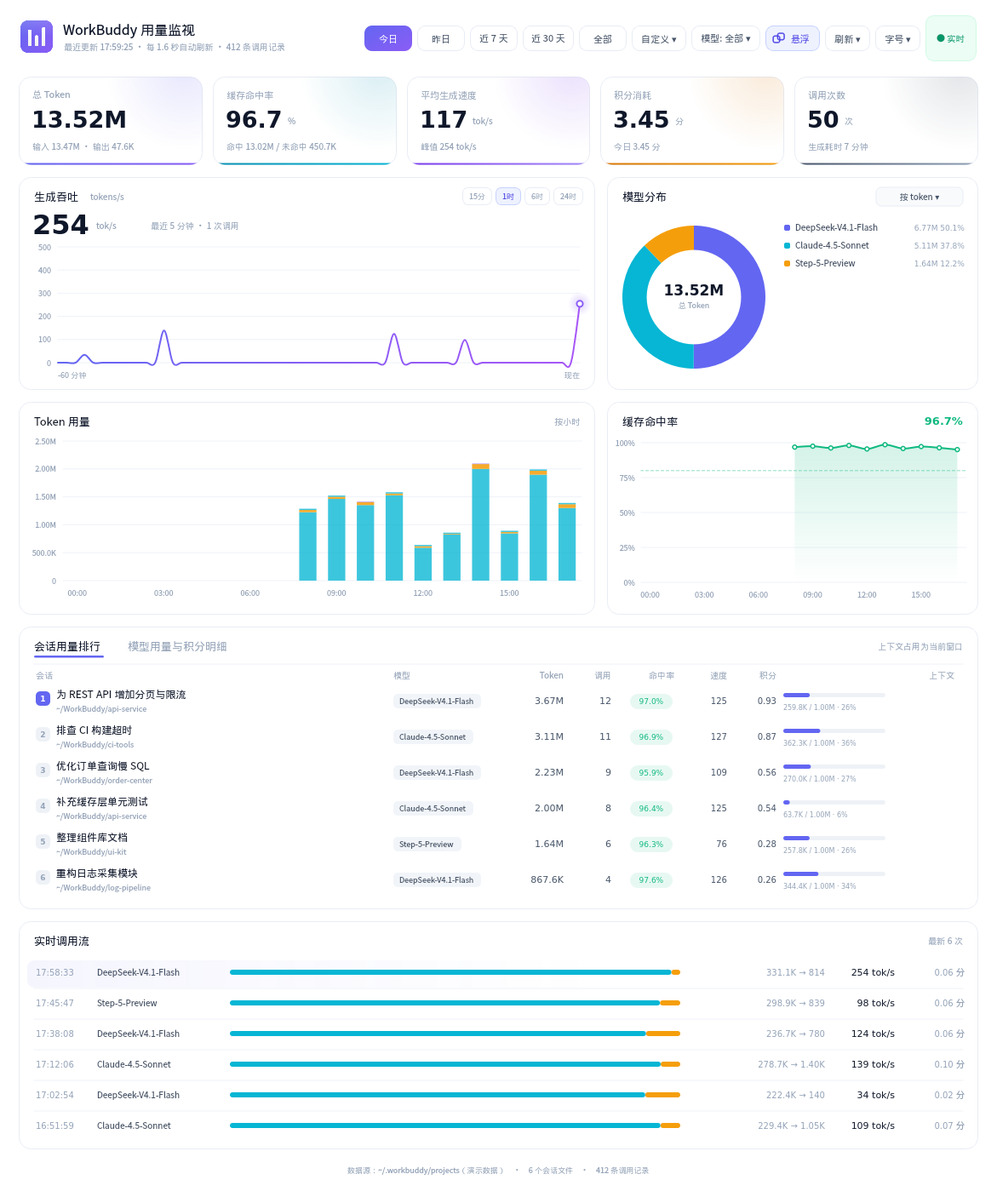
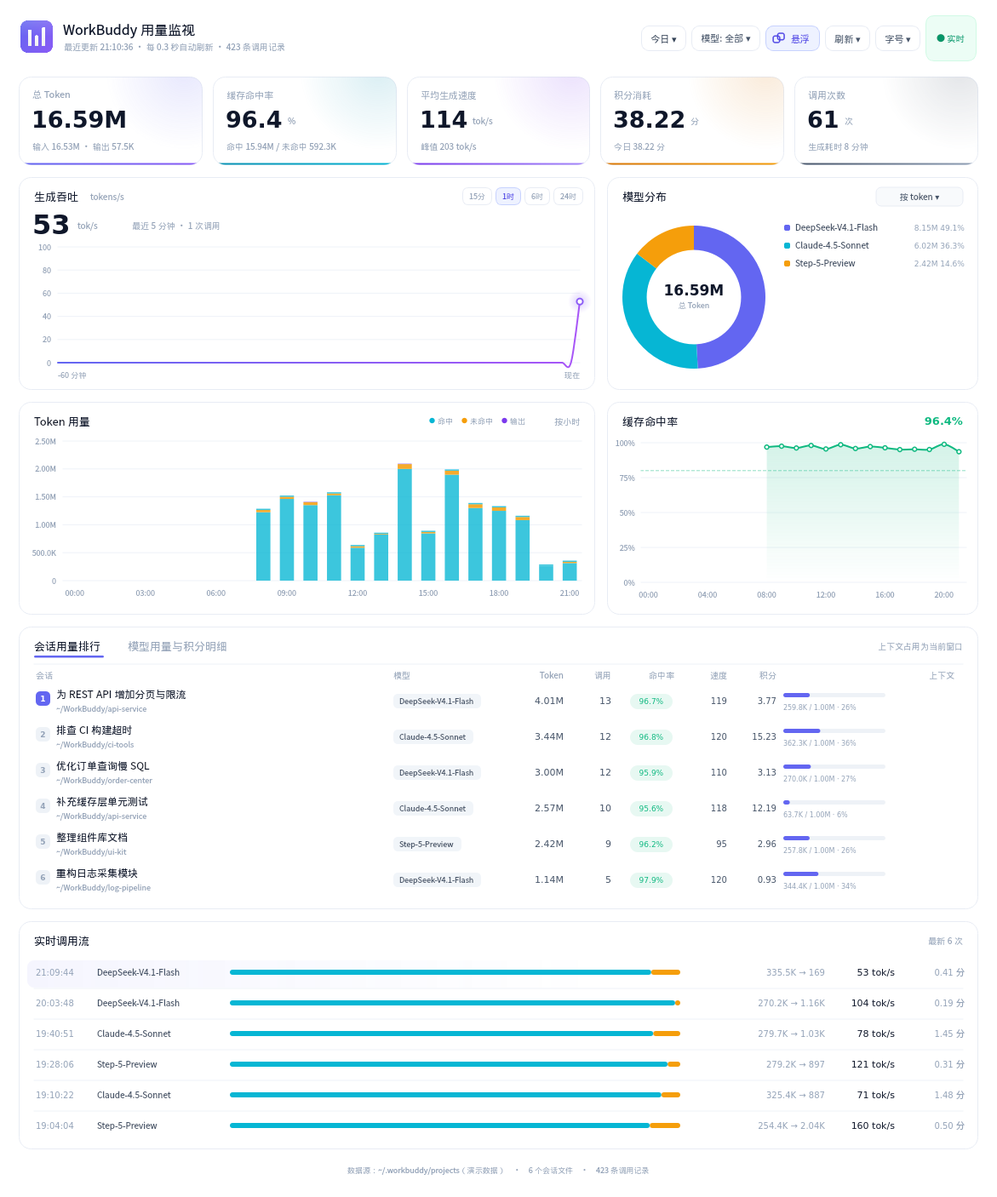
feat: 顶部时间菜单、加权均价与环形图自动选维度
- 六个时间按钮收进「今日 ▾」菜单，模型筛选不再被截断
- 「综合单价」改名「加权均价」，补脚注与悬停算法说明（Qt + Web）
- 选定模型且构成某段 >=90% 时，环形图默认切到积分构成；手动切换后不再干预
- Qt 版 Token 用量图补回三色图例
- 版本 1.1.1，更新 CHANGELOG、中英文 README 与演示素材

diff --git a/preview.html b/preview.html
@@ -1206,7 +1206,7 @@ tr:nth-child(3) .rank { background: #ede9fe; color: #7c3aed; }
 </div>
 
 <div class="tip" id="tip"></div>
-<script>window.__WB_SNAPSHOT__ = {"generated_at": 1792664989254, "range": "all", "start": 1792109244131, "end": 1792664989254, "selected_model": null, "kpi": {"tokens": 74142591, "input": 73765587, "output": 377004, "cache_hit": 70754033, "cache_miss": 3011554, "hit_rate": 0.959173998032443, "credit": 182.65, "calls": 417, "avg_speed": 110.65103206673977, "peak_speed": 202.65111346765642, "gen_seconds": 3407.1, "today_tokens": 14795887, "today_credit": 33.46, "today_calls": 55, "all_tokens": 74142591, "all_credit": 182.65}, "series": {"granularity": "day", "buckets": [{"label": "10/16", "hit": 5158302, "miss": 211677, "out": 52950, "credit": 15.904000000000003, "calls": 61, "t": 1792080000000}, {"label": "10/17", "hit": 6751221, "miss": 292454, "out": 47646, "credit": 15.593999999999992, "calls": 60, "t": 1792166400000}, {"label": "10/18", "hit": 8981214, "miss": 389376, "out": 57230, "credit": 22.754, "calls": 63, "t": 1792252800000}, {"label": "10/19", "hit": 10231181, "miss": 471961, "out": 55112, "credit": 27.774000000000004, "calls": 59, "t": 1792339200000}, {"label": "10/20", "hit": 11488522, "miss": 532223, "out": 54702, "credit": 29.835, "calls": 56, "t": 1792425600000}, {"label": "10/21", "hit": 13903170, "miss": 609557, "out": 58206, "credit": 37.332, "calls": 63, "t": 1792512000000}, {"label": "10/22", "hit": 14240423, "miss": 504306, "out": 51158, "credit": 33.459, "calls": 55, "t": 1792598400000}]}, "speeds": [{"t": 1792661389254, "v": 0.0, "out": 0, "calls": 0}, {"t": 1792661449254, "v": 0.0, "out": 0, "calls": 0}, {"t": 1792661509254, "v": 0.0, "out": 0, "calls": 0}, {"t": 1792661569254, "v": 0.0, "out": 0, "calls": 0}, {"t": 1792661629254, "v": 0.0, "out": 0, "calls": 0}, {"t": 1792661689254, "v": 0.0, "out": 0, "calls": 0}, {"t": 1792661749254, "v": 0.0, "out": 0, "calls": 0}, {"t": 1792661809254, "v": 0.0, "out": 0, "calls": 0}, {"t": 1792661869254, "v": 124.5, "out": 780, "calls": 1}, {"t": 1792661929254, "v": 0.0, "out": 0, "calls": 0}, {"t": 1792661989254, "v": 0.0, "out": 0, "calls": 0}, {"t": 1792662049254, "v": 0.0, "out": 0, "calls": 0}, {"t": 1792662109254, "v": 0.0, "out": 0, "calls": 0}, {"t": 1792662169254, "v": 0.0, "out": 0, "calls": 0}, {"t": 1792662229254, "v": 0.0, "out": 0, "calls": 0}, {"t": 1792662289254, "v": 90.4, "out": 1672, "calls": 2}, {"t": 1792662349254, "v": 130.9, "out": 1524, "calls": 1}, {"t": 1792662409254, "v": 0.0, "out": 0, "calls": 0}, {"t": 1792662469254, "v": 0.0, "out": 0, "calls": 0}, {"t": 1792662529254, "v": 0.0, "out": 0, "calls": 0}, {"t": 1792662589254, "v": 0.0, "out": 0, "calls": 0}, {"t": 1792662649254, "v": 0.0, "out": 0, "calls": 0}, {"t": 1792662709254, "v": 0.0, "out": 0, "calls": 0}, {"t": 1792662769254, "v": 0.0, "out": 0, "calls": 0}, {"t": 1792662829254, "v": 0.0, "out": 0, "calls": 0}, {"t": 1792662889254, "v": 0.0, "out": 0, "calls": 0}, {"t": 1792662949254, "v": 111.4, "out": 814, "calls": 1}, {"t": 1792663009254, "v": 0.0, "out": 0, "calls": 0}, {"t": 1792663069254, "v": 0.0, "out": 0, "calls": 0}, {"t": 1792663129254, "v": 0.0, "out": 0, "calls": 0}, {"t": 1792663189254, "v": 79.6, "out": 358, "calls": 1}, {"t": 1792663249254, "v": 0.0, "out": 0, "calls": 0}, {"t": 1792663309254, "v": 0.0, "out": 0, "calls": 0}, {"t": 1792663369254, "v": 0.0, "out": 0, "calls": 0}, {"t": 1792663429254, "v": 0.0, "out": 0, "calls": 0}, {"t": 1792663489254, "v": 0.0, "out": 0, "calls": 0}, {"t": 1792663549254, "v": 0.0, "out": 0, "calls": 0}, {"t": 1792663609254, "v": 0.0, "out": 0, "calls": 0}, {"t": 1792663669254, "v": 0.0, "out": 0, "calls": 0}, {"t": 1792663729254, "v": 0.0, "out": 0, "calls": 0}, {"t": 1792663789254, "v": 0.0, "out": 0, "calls": 0}, {"t": 1792663849254, "v": 0.0, "out": 0, "calls": 0}, {"t": 1792663909254, "v": 0.0, "out": 0, "calls": 0}, {"t": 1792663969254, "v": 0.0, "out": 0, "calls": 0}, {"t": 1792664029254, "v": 0.0, "out": 0, "calls": 0}, {"t": 1792664089254, "v": 0.0, "out": 0, "calls": 0}, {"t": 1792664149254, "v": 0.0, "out": 0, "calls": 0}, {"t": 1792664209254, "v": 0.0, "out": 0, "calls": 0}, {"t": 1792664269254, "v": 98.8, "out": 443, "calls": 1}, {"t": 1792664329254, "v": 0.0, "out": 0, "calls": 0}, {"t": 1792664389254, "v": 0.0, "out": 0, "calls": 0}, {"t": 1792664449254, "v": 0.0, "out": 0, "calls": 0}, {"t": 1792664509254, "v": 0.0, "out": 0, "calls": 0}, {"t": 1792664569254, "v": 0.0, "out": 0, "calls": 0}, {"t": 1792664629254, "v": 0.0, "out": 0, "calls": 0}, {"t": 1792664689254, "v": 0.0, "out": 0, "calls": 0}, {"t": 1792664749254, "v": 0.0, "out": 0, "calls": 0}, {"t": 1792664809254, "v": 0.0, "out": 0, "calls": 0}, {"t": 1792664869254, "v": 0.0, "out": 0, "calls": 0}, {"t": 1792664929254, "v": 133.1, "out": 426, "calls": 1}], "models": [{"name": "DeepSeek-V4.1-Flash", "tokens": 36078472, "in": 35889485, "out": 188987, "calls": 204, "hit": 34443434, "miss": 1446051, "credit": 41.56, "share": 0.4866, "credit_share": 0.2275, "hit_rate": 0.9597, "speed": 111.5}, {"name": "Claude-4.5-Sonnet", "tokens": 25507098, "in": 25376139, "out": 130959, "calls": 144, "hit": 24339755, "miss": 1036384, "credit": 123.75, "share": 0.344, "credit_share": 0.6775, "hit_rate": 0.9592, "speed": 113.6}, {"name": "Step-5-Preview", "tokens": 12557021, "in": 12499963, "out": 57058, "calls": 69, "hit": 11970844, "miss": 529119, "credit": 17.34, "share": 0.1694, "credit_share": 0.0949, "hit_rate": 0.9577, "speed": 101.8}], "all_models": [{"name": "DeepSeek-V4.1-Flash", "tokens": 36078472, "in": 35889485, "out": 188987, "calls": 204, "hit": 34443434, "miss": 1446051, "credit": 41.56, "share": 0.4866, "credit_share": 0.2275, "hit_rate": 0.9597, "speed": 111.5}, {"name": "Claude-4.5-Sonnet", "tokens": 25507098, "in": 25376139, "out": 130959, "calls": 144, "hit": 24339755, "miss": 1036384, "credit": 123.75, "share": 0.344, "credit_share": 0.6775, "hit_rate": 0.9592, "speed": 113.6}, {"name": "Step-5-Preview", "tokens": 12557021, "in": 12499963, "out": 57058, "calls": 69, "hit": 11970844, "miss": 529119, "credit": 17.34, "share": 0.1694, "credit_share": 0.0949, "hit_rate": 0.9577, "speed": 101.8}], "breakdown": null, "sessions": [{"id": "demo-02", "title": "为 REST API 增加分页与限流", "cwd": "~/WorkBuddy/api-service", "model": "DeepSeek-V4.1-Flash", "tokens": 16597932, "in": 16512593, "out": 85339, "calls": 84, "hit_rate": 0.9605473228826024, "credit": 18.83, "speed": 114.7234653506608, "last": 1792662973708, "used": 259780, "size": 1000000, "active": false}, {"id": "demo-03", "title": "排查 CI 构建超时", "cwd": "~/WorkBuddy/ci-tools", "model": "Claude-4.5-Sonnet", "tokens": 14197438, "in": 14126458, "out": 70980, "calls": 77, "hit_rate": 0.9616276068636597, "credit": 67.66, "speed": 113.91978429389955, "last": 1792664272316, "used": 362263, "size": 1000000, "active": false}, {"id": "demo-05", "title": "整理组件库文档", "cwd": "~/WorkBuddy/ui-kit", "model": "Step-5-Preview", "tokens": 12557021, "in": 12499963, "out": 57058, "calls": 69, "hit_rate": 0.9576703547042499, "credit": 17.34, "speed": 101.84963710555535, "last": 1792663223950, "used": 257843, "size": 1000000, "active": false}, {"id": "demo-04", "title": "补充缓存层单元测试", "cwd": "~/WorkBuddy/api-service", "model": "Claude-4.5-Sonnet", "tokens": 11309660, "in": 11249681, "out": 59979, "calls": 67, "hit_rate": 0.9560593762614247, "credit": 56.09, "speed": 113.30474535287894, "last": 1792659119865, "used": 63672, "size": 1000000, "active": false}, {"id": "demo-06", "title": "优化订单查询慢 SQL", "cwd": "~/WorkBuddy/order-center", "model": "DeepSeek-V4.1-Flash", "tokens": 10708595, "in": 10657218, "out": 51377, "calls": 64, "hit_rate": 0.9589985866855684, "credit": 12.18, "speed": 106.45413274598495, "last": 1792662356264, "used": 270013, "size": 1000000, "active": false}, {"id": "demo-01", "title": "重构日志采集模块", "cwd": "~/WorkBuddy/log-pipeline", "model": "DeepSeek-V4.1-Flash", "tokens": 8771945, "in": 8719674, "out": 52271, "calls": 56, "hit_rate": 0.9589865400931273, "credit": 10.55, "speed": 111.68826173911557, "last": 1792664937240, "used": 344364, "size": 1000000, "active": true}], "recent": [{"t": 1792664937240, "model": "DeepSeek-V4.1-Flash", "in": 226412, "out": 426, "hit": 219805, "miss": 6607, "credit": 0.183, "dur": 3200, "speed": 133.1, "tool": "Write", "title": "重构日志采集模块"}, {"t": 1792664272316, "model": "Claude-4.5-Sonnet", "in": 264635, "out": 443, "hit": 251691, "miss": 12944, "credit": 1.21, "dur": 4486, "speed": 98.8, "tool": "Glob", "title": "排查 CI 构建超时"}, {"t": 1792663223950, "model": "Step-5-Preview", "in": 242466, "out": 358, "hit": 235954, "miss": 6512, "credit": 0.237, "dur": 4495, "speed": 79.6, "tool": "Edit", "title": "整理组件库文档"}, {"t": 1792662973708, "model": "DeepSeek-V4.1-Flash", "in": 331087, "out": 814, "hit": 324572, "miss": 6515, "credit": 0.234, "dur": 7304, "speed": 111.4, "tool": "Write", "title": "为 REST API 增加分页与限流"}, {"t": 1792662356264, "model": "DeepSeek-V4.1-Flash", "in": 280171, "out": 1524, "hit": 272979, "miss": 7192, "credit": 0.269, "dur": 11643, "speed": 130.9, "tool": "Glob", "title": "优化订单查询慢 SQL"}, {"t": 1792662347644, "model": "Step-5-Preview", "in": 298850, "out": 839, "hit": 285395, "miss": 13455, "credit": 0.395, "dur": 8555, "speed": 98.1, "tool": "Glob", "title": "整理组件库文档"}, {"t": 1792662325826, "model": "DeepSeek-V4.1-Flash", "in": 256123, "out": 833, "hit": 235764, "miss": 20359, "credit": 0.408, "dur": 9946, "speed": 83.8, "tool": "Edit", "title": "重构日志采集模块"}, {"t": 1792661888411, "model": "DeepSeek-V4.1-Flash", "in": 236650, "out": 780, "hit": 218663, "miss": 17987, "credit": 0.366, "dur": 6264, "speed": 124.5, "tool": "TaskCreate", "title": "优化订单查询慢 SQL"}, {"t": 1792660326979, "model": "Claude-4.5-Sonnet", "in": 278671, "out": 1398, "hit": 266582, "miss": 12089, "credit": 1.372, "dur": 10055, "speed": 139.0, "tool": "Read", "title": "排查 CI 构建超时"}, {"t": 1792659774728, "model": "DeepSeek-V4.1-Flash", "in": 222390, "out": 140, "hit": 205082, "miss": 17308, "credit": 0.316, "dur": 4137, "speed": 33.8, "tool": "Write", "title": "优化订单查询慢 SQL"}, {"t": 1792659119865, "model": "Claude-4.5-Sonnet", "in": 229443, "out": 1051, "hit": 219361, "miss": 10082, "credit": 1.118, "dur": 9654, "speed": 108.9, "tool": "Glob", "title": "补充缓存层单元测试"}, {"t": 1792657396096, "model": "Step-5-Preview", "in": 245578, "out": 140, "hit": 233576, "miss": 12002, "credit": 0.305, "dur": 4078, "speed": 34.3, "tool": "Glob", "title": "整理组件库文档"}, {"t": 1792657359694, "model": "Claude-4.5-Sonnet", "in": 310925, "out": 251, "hit": 295920, "miss": 15005, "credit": 1.376, "dur": 3923, "speed": 64.0, "tool": "Grep", "title": "排查 CI 构建超时"}, {"t": 1792657226049, "model": "DeepSeek-V4.1-Flash", "in": 303606, "out": 1150, "hit": 301921, "miss": 1685, "credit": 0.177, "dur": 9168, "speed": 125.4, "tool": "Edit", "title": "为 REST API 增加分页与限流"}, {"t": 1792656676981, "model": "Step-5-Preview", "in": 287802, "out": 812, "hit": 285388, "miss": 2414, "credit": 0.228, "dur": 8121, "speed": 100.0, "tool": "Glob", "title": "整理组件库文档"}, {"t": 1792656134959, "model": "DeepSeek-V4.1-Flash", "in": 288527, "out": 1142, "hit": 278811, "miss": 9716, "credit": 0.285, "dur": 11280, "speed": 101.2, "tool": "Write", "title": "优化订单查询慢 SQL"}, {"t": 1792656030425, "model": "DeepSeek-V4.1-Flash", "in": 302477, "out": 852, "hit": 281554, "miss": 20923, "credit": 0.431, "dur": 6880, "speed": 123.8, "tool": "Glob", "title": "为 REST API 增加分页与限流"}, {"t": 1792655229155, "model": "DeepSeek-V4.1-Flash", "in": 291630, "out": 774, "hit": 287571, "miss": 4059, "credit": 0.186, "dur": 6118, "speed": 126.5, "tool": "Grep", "title": "优化订单查询慢 SQL"}, {"t": 1792655157528, "model": "Claude-4.5-Sonnet", "in": 268191, "out": 580, "hit": 258554, "miss": 9637, "credit": 1.152, "dur": 6577, "speed": 88.2, "tool": "TaskCreate", "title": "排查 CI 构建超时"}, {"t": 1792654166108, "model": "Claude-4.5-Sonnet", "in": 310150, "out": 852, "hit": 299715, "miss": 10435, "credit": 1.34, "dur": 6295, "speed": 135.3, "tool": "Edit", "title": "排查 CI 构建超时"}, {"t": 1792651957371, "model": "Claude-4.5-Sonnet", "in": 303453, "out": 449, "hit": 293256, "miss": 10197, "credit": 1.253, "dur": 5791, "speed": 77.5, "tool": "Grep", "title": "补充缓存层单元测试"}, {"t": 1792651886195, "model": "DeepSeek-V4.1-Flash", "in": 244084, "out": 1123, "hit": 234140, "miss": 9944, "credit": 0.275, "dur": 6819, "speed": 164.7, "tool": "Edit", "title": "优化订单查询慢 SQL"}, {"t": 1792651579326, "model": "Claude-4.5-Sonnet", "in": 239764, "out": 1479, "hit": 235626, "miss": 4138, "credit": 1.053, "dur": 12062, "speed": 122.6, "tool": "TaskCreate", "title": "补充缓存层单元测试"}, {"t": 1792651433913, "model": "Claude-4.5-Sonnet", "in": 255193, "out": 392, "hit": 238832, "miss": 16361, "credit": 1.266, "dur": 4840, "speed": 81.0, "tool": "Read", "title": "补充缓存层单元测试"}], "status": {"files": 6, "records": 417, "last_scan": 1792664989240, "sessions": 6, "source": "~/.workbuddy/projects（演示数据）"}};</script>
+<script>window.__WB_SNAPSHOT__ = {"generated_at": 1792674638871, "range": "all", "start": 1792109244131, "end": 1792674638871, "selected_model": null, "kpi": {"tokens": 75934516, "input": 75551148, "output": 383368, "cache_hit": 72451600, "cache_miss": 3099548, "hit_rate": 0.9589741773348037, "credit": 187.41, "calls": 423, "avg_speed": 110.5671379381055, "peak_speed": 202.65111346765642, "gen_seconds": 3467.3, "today_tokens": 16587812, "today_credit": 38.22, "today_calls": 61, "all_tokens": 75934516, "all_credit": 187.41}, "series": {"granularity": "day", "buckets": [{"label": "10/16", "hit": 5158302, "miss": 211677, "out": 52950, "credit": 15.904000000000003, "calls": 61, "t": 1792080000000}, {"label": "10/17", "hit": 6751221, "miss": 292454, "out": 47646, "credit": 15.593999999999992, "calls": 60, "t": 1792166400000}, {"label": "10/18", "hit": 8981214, "miss": 389376, "out": 57230, "credit": 22.754, "calls": 63, "t": 1792252800000}, {"label": "10/19", "hit": 10231181, "miss": 471961, "out": 55112, "credit": 27.774000000000004, "calls": 59, "t": 1792339200000}, {"label": "10/20", "hit": 11488522, "miss": 532223, "out": 54702, "credit": 29.835, "calls": 56, "t": 1792425600000}, {"label": "10/21", "hit": 13903170, "miss": 609557, "out": 58206, "credit": 37.332, "calls": 63, "t": 1792512000000}, {"label": "10/22", "hit": 15937990, "miss": 592300, "out": 57522, "credit": 38.22100000000001, "calls": 61, "t": 1792598400000}]}, "speeds": [{"t": 1792671038871, "v": 0.0, "out": 0, "calls": 0}, {"t": 1792671098871, "v": 0.0, "out": 0, "calls": 0}, {"t": 1792671158871, "v": 0.0, "out": 0, "calls": 0}, {"t": 1792671218871, "v": 0.0, "out": 0, "calls": 0}, {"t": 1792671278871, "v": 0.0, "out": 0, "calls": 0}, {"t": 1792671338871, "v": 0.0, "out": 0, "calls": 0}, {"t": 1792671398871, "v": 0.0, "out": 0, "calls": 0}, {"t": 1792671458871, "v": 0.0, "out": 0, "calls": 0}, {"t": 1792671518871, "v": 0.0, "out": 0, "calls": 0}, {"t": 1792671578871, "v": 0.0, "out": 0, "calls": 0}, {"t": 1792671638871, "v": 0.0, "out": 0, "calls": 0}, {"t": 1792671698871, "v": 0.0, "out": 0, "calls": 0}, {"t": 1792671758871, "v": 0.0, "out": 0, "calls": 0}, {"t": 1792671818871, "v": 0.0, "out": 0, "calls": 0}, {"t": 1792671878871, "v": 0.0, "out": 0, "calls": 0}, {"t": 1792671938871, "v": 0.0, "out": 0, "calls": 0}, {"t": 1792671998871, "v": 0.0, "out": 0, "calls": 0}, {"t": 1792672058871, "v": 0.0, "out": 0, "calls": 0}, {"t": 1792672118871, "v": 0.0, "out": 0, "calls": 0}, {"t": 1792672178871, "v": 0.0, "out": 0, "calls": 0}, {"t": 1792672238871, "v": 0.0, "out": 0, "calls": 0}, {"t": 1792672298871, "v": 0.0, "out": 0, "calls": 0}, {"t": 1792672358871, "v": 0.0, "out": 0, "calls": 0}, {"t": 1792672418871, "v": 0.0, "out": 0, "calls": 0}, {"t": 1792672478871, "v": 0.0, "out": 0, "calls": 0}, {"t": 1792672538871, "v": 0.0, "out": 0, "calls": 0}, {"t": 1792672598871, "v": 0.0, "out": 0, "calls": 0}, {"t": 1792672658871, "v": 0.0, "out": 0, "calls": 0}, {"t": 1792672718871, "v": 0.0, "out": 0, "calls": 0}, {"t": 1792672778871, "v": 0.0, "out": 0, "calls": 0}, {"t": 1792672838871, "v": 0.0, "out": 0, "calls": 0}, {"t": 1792672898871, "v": 0.0, "out": 0, "calls": 0}, {"t": 1792672958871, "v": 0.0, "out": 0, "calls": 0}, {"t": 1792673018871, "v": 0.0, "out": 0, "calls": 0}, {"t": 1792673078871, "v": 0.0, "out": 0, "calls": 0}, {"t": 1792673138871, "v": 0.0, "out": 0, "calls": 0}, {"t": 1792673198871, "v": 0.0, "out": 0, "calls": 0}, {"t": 1792673258871, "v": 0.0, "out": 0, "calls": 0}, {"t": 1792673318871, "v": 0.0, "out": 0, "calls": 0}, {"t": 1792673378871, "v": 0.0, "out": 0, "calls": 0}, {"t": 1792673438871, "v": 0.0, "out": 0, "calls": 0}, {"t": 1792673498871, "v": 0.0, "out": 0, "calls": 0}, {"t": 1792673558871, "v": 0.0, "out": 0, "calls": 0}, {"t": 1792673618871, "v": 0.0, "out": 0, "calls": 0}, {"t": 1792673678871, "v": 0.0, "out": 0, "calls": 0}, {"t": 1792673738871, "v": 0.0, "out": 0, "calls": 0}, {"t": 1792673798871, "v": 0.0, "out": 0, "calls": 0}, {"t": 1792673858871, "v": 0.0, "out": 0, "calls": 0}, {"t": 1792673918871, "v": 0.0, "out": 0, "calls": 0}, {"t": 1792673978871, "v": 0.0, "out": 0, "calls": 0}, {"t": 1792674038871, "v": 0.0, "out": 0, "calls": 0}, {"t": 1792674098871, "v": 0.0, "out": 0, "calls": 0}, {"t": 1792674158871, "v": 0.0, "out": 0, "calls": 0}, {"t": 1792674218871, "v": 0.0, "out": 0, "calls": 0}, {"t": 1792674278871, "v": 0.0, "out": 0, "calls": 0}, {"t": 1792674338871, "v": 0.0, "out": 0, "calls": 0}, {"t": 1792674398871, "v": 0.0, "out": 0, "calls": 0}, {"t": 1792674458871, "v": 0.0, "out": 0, "calls": 0}, {"t": 1792674518871, "v": 0.0, "out": 0, "calls": 0}, {"t": 1792674578871, "v": 52.8, "out": 169, "calls": 1}], "models": [{"name": "DeepSeek-V4.1-Flash", "tokens": 36694179, "in": 36504529, "out": 189650, "calls": 206, "hit": 35036575, "miss": 1467954, "credit": 42.08, "share": 0.4832, "credit_share": 0.2245, "hit_rate": 0.9598, "speed": 111.4}, {"name": "Claude-4.5-Sonnet", "tokens": 26146767, "in": 26013046, "out": 133721, "calls": 146, "hit": 24935641, "miss": 1077405, "credit": 127.18, "share": 0.3443, "credit_share": 0.6786, "hit_rate": 0.9586, "speed": 112.9}, {"name": "Step-5-Preview", "tokens": 13093570, "in": 13033573, "out": 59997, "calls": 71, "hit": 12479384, "miss": 554189, "credit": 18.15, "share": 0.1724, "credit_share": 0.0968, "hit_rate": 0.9575, "speed": 103.4}], "all_models": [{"name": "DeepSeek-V4.1-Flash", "tokens": 36694179, "in": 36504529, "out": 189650, "calls": 206, "hit": 35036575, "miss": 1467954, "credit": 42.08, "share": 0.4832, "credit_share": 0.2245, "hit_rate": 0.9598, "speed": 111.4}, {"name": "Claude-4.5-Sonnet", "tokens": 26146767, "in": 26013046, "out": 133721, "calls": 146, "hit": 24935641, "miss": 1077405, "credit": 127.18, "share": 0.3443, "credit_share": 0.6786, "hit_rate": 0.9586, "speed": 112.9}, {"name": "Step-5-Preview", "tokens": 13093570, "in": 13033573, "out": 59997, "calls": 71, "hit": 12479384, "miss": 554189, "credit": 18.15, "share": 0.1724, "credit_share": 0.0968, "hit_rate": 0.9575, "speed": 103.4}], "breakdown": null, "sessions": [{"id": "demo-02", "title": "为 REST API 增加分页与限流", "cwd": "~/WorkBuddy/api-service", "model": "DeepSeek-V4.1-Flash", "tokens": 16933564, "in": 16848056, "out": 85508, "calls": 85, "hit_rate": 0.9600467852196123, "credit": 19.24, "speed": 114.45827482675583, "last": 1792674586849, "used": 259780, "size": 1000000, "active": true}, {"id": "demo-03", "title": "排查 CI 构建超时", "cwd": "~/WorkBuddy/ci-tools", "model": "Claude-4.5-Sonnet", "tokens": 14258664, "in": 14187240, "out": 71424, "calls": 77, "hit_rate": 0.9617406909307237, "credit": 67.93, "speed": 113.17741015402167, "last": 1792667422102, "used": 362263, "size": 1000000, "active": false}, {"id": "demo-05", "title": "整理组件库文档", "cwd": "~/WorkBuddy/ui-kit", "model": "Step-5-Preview", "tokens": 13093570, "in": 13033573, "out": 59997, "calls": 71, "hit_rate": 0.9574798867509317, "credit": 18.15, "speed": 103.36219579846122, "last": 1792668486841, "used": 257843, "size": 1000000, "active": false}, {"id": "demo-04", "title": "补充缓存层单元测试", "cwd": "~/WorkBuddy/api-service", "model": "Claude-4.5-Sonnet", "tokens": 11888103, "in": 11825806, "out": 62297, "calls": 69, "hit_rate": 0.954792848791871, "credit": 59.26, "speed": 112.67684605395004, "last": 1792669251587, "used": 63672, "size": 1000000, "active": false}, {"id": "demo-06", "title": "优化订单查询慢 SQL", "cwd": "~/WorkBuddy/order-center", "model": "DeepSeek-V4.1-Flash", "tokens": 11201085, "in": 11149117, "out": 51968, "calls": 66, "hit_rate": 0.9586460524183216, "credit": 12.69, "speed": 106.10868135951748, "last": 1792666190795, "used": 270013, "size": 1000000, "active": false}, {"id": "demo-01", "title": "重构日志采集模块", "cwd": "~/WorkBuddy/log-pipeline", "model": "DeepSeek-V4.1-Flash", "tokens": 8559530, "in": 8507356, "out": 52174, "calls": 55, "hit_rate": 0.9607680694213337, "credit": 10.15, "speed": 111.95128336072715, "last": 1792670628576, "used": 344364, "size": 1000000, "active": false}], "recent": [{"t": 1792674586849, "model": "DeepSeek-V4.1-Flash", "in": 335463, "out": 169, "hit": 313795, "miss": 21668, "credit": 0.411, "dur": 3200, "speed": 52.8, "tool": "Grep", "title": "为 REST API 增加分页与限流"}, {"t": 1792670628576, "model": "DeepSeek-V4.1-Flash", "in": 270217, "out": 1162, "hit": 267115, "miss": 3102, "credit": 0.188, "dur": 11180, "speed": 103.9, "tool": "Edit", "title": "重构日志采集模块"}, {"t": 1792669251587, "model": "Claude-4.5-Sonnet", "in": 279698, "out": 1032, "hit": 262903, "miss": 16795, "credit": 1.447, "dur": 13223, "speed": 78.0, "tool": "Glob", "title": "补充缓存层单元测试"}, {"t": 1792668486841, "model": "Step-5-Preview", "in": 279213, "out": 897, "hit": 271381, "miss": 7832, "credit": 0.307, "dur": 7436, "speed": 120.6, "tool": "Read", "title": "整理组件库文档"}, {"t": 1792667422102, "model": "Claude-4.5-Sonnet", "in": 325417, "out": 887, "hit": 311745, "miss": 13672, "credit": 1.478, "dur": 12496, "speed": 71.0, "tool": "Bash", "title": "排查 CI 构建超时"}, {"t": 1792667044966, "model": "Step-5-Preview", "in": 254397, "out": 2042, "hit": 237159, "miss": 17238, "credit": 0.5, "dur": 12800, "speed": 159.5, "tool": "TaskCreate", "title": "整理组件库文档"}, {"t": 1792666190795, "model": "DeepSeek-V4.1-Flash", "in": 280171, "out": 1524, "hit": 272979, "miss": 7192, "credit": 0.269, "dur": 11643, "speed": 130.9, "tool": "Grep", "title": "优化订单查询慢 SQL"}, {"t": 1792665887447, "model": "DeepSeek-V4.1-Flash", "in": 256695, "out": 339, "hit": 236987, "miss": 19708, "credit": 0.371, "dur": 2482, "speed": 136.6, "tool": "Edit", "title": "优化订单查询慢 SQL"}, {"t": 1792664390396, "model": "Claude-4.5-Sonnet", "in": 296427, "out": 1286, "hit": 272929, "miss": 23498, "credit": 1.717, "dur": 10299, "speed": 124.9, "tool": "Write", "title": "补充缓存层单元测试"}, {"t": 1792664332101, "model": "DeepSeek-V4.1-Flash", "in": 235204, "out": 252, "hit": 230813, "miss": 4391, "credit": 0.144, "dur": 4659, "speed": 54.1, "tool": "Grep", "title": "优化订单查询慢 SQL"}, {"t": 1792663223950, "model": "Step-5-Preview", "in": 242466, "out": 358, "hit": 235954, "miss": 6512, "credit": 0.237, "dur": 4495, "speed": 79.6, "tool": "Edit", "title": "整理组件库文档"}, {"t": 1792662973708, "model": "DeepSeek-V4.1-Flash", "in": 331087, "out": 814, "hit": 324572, "miss": 6515, "credit": 0.234, "dur": 7304, "speed": 111.4, "tool": "Write", "title": "为 REST API 增加分页与限流"}, {"t": 1792662347644, "model": "Step-5-Preview", "in": 298850, "out": 839, "hit": 285395, "miss": 13455, "credit": 0.395, "dur": 8555, "speed": 98.1, "tool": "Glob", "title": "整理组件库文档"}, {"t": 1792661888411, "model": "DeepSeek-V4.1-Flash", "in": 236650, "out": 780, "hit": 218663, "miss": 17987, "credit": 0.366, "dur": 6264, "speed": 124.5, "tool": "TaskCreate", "title": "优化订单查询慢 SQL"}, {"t": 1792660326979, "model": "Claude-4.5-Sonnet", "in": 278671, "out": 1398, "hit": 266582, "miss": 12089, "credit": 1.372, "dur": 10055, "speed": 139.0, "tool": "Read", "title": "排查 CI 构建超时"}, {"t": 1792659774728, "model": "DeepSeek-V4.1-Flash", "in": 222390, "out": 140, "hit": 205082, "miss": 17308, "credit": 0.316, "dur": 4137, "speed": 33.8, "tool": "Write", "title": "优化订单查询慢 SQL"}, {"t": 1792659119865, "model": "Claude-4.5-Sonnet", "in": 229443, "out": 1051, "hit": 219361, "miss": 10082, "credit": 1.118, "dur": 9654, "speed": 108.9, "tool": "Glob", "title": "补充缓存层单元测试"}, {"t": 1792657396096, "model": "Step-5-Preview", "in": 245578, "out": 140, "hit": 233576, "miss": 12002, "credit": 0.305, "dur": 4078, "speed": 34.3, "tool": "Glob", "title": "整理组件库文档"}, {"t": 1792657359694, "model": "Claude-4.5-Sonnet", "in": 310925, "out": 251, "hit": 295920, "miss": 15005, "credit": 1.376, "dur": 3923, "speed": 64.0, "tool": "Grep", "title": "排查 CI 构建超时"}, {"t": 1792657226049, "model": "DeepSeek-V4.1-Flash", "in": 303606, "out": 1150, "hit": 301921, "miss": 1685, "credit": 0.177, "dur": 9168, "speed": 125.4, "tool": "Edit", "title": "为 REST API 增加分页与限流"}, {"t": 1792656676981, "model": "Step-5-Preview", "in": 287802, "out": 812, "hit": 285388, "miss": 2414, "credit": 0.228, "dur": 8121, "speed": 100.0, "tool": "Glob", "title": "整理组件库文档"}, {"t": 1792656134959, "model": "DeepSeek-V4.1-Flash", "in": 288527, "out": 1142, "hit": 278811, "miss": 9716, "credit": 0.285, "dur": 11280, "speed": 101.2, "tool": "Write", "title": "优化订单查询慢 SQL"}, {"t": 1792656030425, "model": "DeepSeek-V4.1-Flash", "in": 302477, "out": 852, "hit": 281554, "miss": 20923, "credit": 0.431, "dur": 6880, "speed": 123.8, "tool": "Glob", "title": "为 REST API 增加分页与限流"}, {"t": 1792655229155, "model": "DeepSeek-V4.1-Flash", "in": 291630, "out": 774, "hit": 287571, "miss": 4059, "credit": 0.186, "dur": 6118, "speed": 126.5, "tool": "Grep", "title": "优化订单查询慢 SQL"}], "status": {"files": 6, "records": 423, "last_scan": 1792674638849, "sessions": 6, "source": "~/.workbuddy/projects（演示数据）"}};</script>
 <script>
 /* WorkBuddy Token Monitor — 前端面板 */
 (function () {
@@ -1934,8 +1934,8 @@ tr:nth-child(3) .rank { background: #ede9fe; color: #7c3aed; }
 
       box.innerHTML = rows +
         '<li class="breakdown-foot">' +
-        '<span class="avg-price">综合单价 ~' + avgPrice + ' 分/Mtok</span>' +
-        '<span class="foot-note">* 估算单价 = 积分 / 1M Token</span>' +
+        '<span class="avg-price" title="加权均价 = 总积分 ÷ 总 Token × 1,000,000；受缓存命中率与输入/输出结构影响，不等于任何单一费率">加权均价 ' + avgPrice + ' 分/Mtok</span>' +
+        '<span class="foot-note">* 总积分 ÷ 总 Token，非单段费率</span>' +
         '</li>';
       return;
     }

diff --git a/web/app.js b/web/app.js
@@ -724,8 +724,8 @@
 
       box.innerHTML = rows +
         '<li class="breakdown-foot">' +
-        '<span class="avg-price">综合单价 ~' + avgPrice + ' 分/Mtok</span>' +
-        '<span class="foot-note">* 估算单价 = 积分 / 1M Token</span>' +
+        '<span class="avg-price" title="加权均价 = 总积分 ÷ 总 Token × 1,000,000；受缓存命中率与输入/输出结构影响，不等于任何单一费率">加权均价 ' + avgPrice + ' 分/Mtok</span>' +
+        '<span class="foot-note">* 总积分 ÷ 总 Token，非单段费率</span>' +
         '</li>';
       return;
     }

diff --git a/qt_app.py b/qt_app.py
@@ -23,9 +23,9 @@ from PyQt5.QtGui import (QBrush, QColor, QFont, QFontMetrics, QIcon, QLinearGrad
                          QPainter, QPainterPath, QPen, QPixmap, QRadialGradient)
 from PyQt5.QtWidgets import (QApplication, QDateEdit, QDialog, QFrame, QGraphicsDropShadowEffect, QHBoxLayout,
                              QLabel, QMainWindow, QMenu, QPushButton, QScrollArea,
-                             QSizePolicy, QVBoxLayout, QWidget)
+                             QSizePolicy, QToolTip, QVBoxLayout, QWidget)
 
-__version__ = "1.1.0"
+__version__ = "1.1.1"
 
 BASE_DIR = os.path.dirname(os.path.abspath(__file__))
 sys.path.insert(0, BASE_DIR)
@@ -534,9 +534,23 @@ class UsageChart(Card):
         p = QPainter(self)
         p.setRenderHint(QPainter.Antialiasing)
         W = self.width()
-        txt(p, QRectF(18, 14, 200, 18), "Token 用量", F(13, QFont.DemiBold), INK)
-        txt(p, QRectF(W - 200, 15, 182, 16), "按小时" if self.gran == "hour" else "按天",
+        txt(p, QRectF(18, 14, 120, 18), "Token 用量", F(13, QFont.DemiBold), INK)
+        txt(p, QRectF(W - 64, 15, 46, 16), "按小时" if self.gran == "hour" else "按天",
             F(10), INK3, Qt.AlignRight | Qt.AlignVCenter)
+
+        # 三种堆叠成分的图例
+        items = (("命中", QColor("#06b6d4")),
+                 ("未命中", QColor("#f59e0b")),
+                 ("输出", QColor("#7c3aed")))
+        fm = QFontMetrics(F(9))
+        total_w = sum(fm.width(t) + 20 for t, _ in items)
+        lx = W - 72 - total_w
+        for lbl, col in items:
+            p.setPen(Qt.NoPen)
+            p.setBrush(QBrush(col))
+            p.drawEllipse(QPointF(lx + 3.5, 22), 3.2, 3.2)
+            txt(p, QRectF(lx + 10, 14, fm.width(lbl) + 6, 16), lbl, F(9), INK3)
+            lx += fm.width(lbl) + 20
 
         rect = self._plot()
         n = len(self.buckets)
@@ -625,20 +639,44 @@ class ModelCard(Card):
         self.breakdown = None
         self.selected_model = None
         self.metric = "tokens"  # "tokens" | "credit"
+        self._user_toggled = False
         self.setMinimumHeight(250)
         self.setMinimumWidth(300)
         self.setCursor(Qt.PointingHandCursor)
 
     def set_data(self, models, breakdown=None, selected_model=None):
+        prev = self.selected_model
         self.models = models
         self.breakdown = breakdown
         self.selected_model = selected_model
+        # 选中模型且 token 结构极度倾斜（某段 ≥90%）时，默认切到「积分构成」更可读；
+        # 用户手动切换过则尊重其选择
+        if breakdown and selected_model != prev and not self._user_toggled:
+            parts = breakdown.get("token_parts") or []
+            top = max([p.get("share", 0) for p in parts] or [0])
+            self.metric = "credit" if top >= 0.9 else "tokens"
+        elif not selected_model and not self._user_toggled:
+            self.metric = "tokens"
         self.update()
+
+    def mouseMoveEvent(self, e):
+        # 「加权均价」容易被误读成某一类 token 的单价，悬停给出算法说明
+        r = getattr(self, "_avg_rect", None)
+        if r is not None and r.contains(QPointF(e.pos())):
+            QToolTip.showText(
+                e.globalPos(),
+                "加权均价 = 总积分 ÷ 总 Token × 1,000,000\n"
+                "受缓存命中率与输入/输出结构影响，不等于任何单一费率",
+                self)
+        else:
+            QToolTip.hideText()
+        super(ModelCard, self).mouseMoveEvent(e)
 
     def mousePressEvent(self, e):
         # 点击右上角度量标签或标题切换度量（Token <-> 积分）
         if e.y() < 42 and e.x() > self.width() - 130:
             self.metric = "credit" if self.metric == "tokens" else "tokens"
+            self._user_toggled = True
             self.update()
         super(ModelCard, self).mousePressEvent(e)
 
@@ -647,6 +685,7 @@ class ModelCard(Card):
         p = QPainter(self)
         p.setRenderHint(QPainter.Antialiasing)
         W, H = self.width(), self.height()
+        self._avg_rect = None
 
         if self.breakdown and self.selected_model:
             sm = self.selected_model
@@ -751,9 +790,10 @@ class ModelCard(Card):
 
             avg_p = self.breakdown.get("avg_price", 0.0)
             txt(p, QRectF(lx + 13, ly + 4, lw - 13, 14),
-                "综合单价 ~%.2f 分/Mtok" % avg_p, F(9, QFont.DemiBold), QColor("#4f46e5"))
+                "加权均价 %.2f 分/Mtok" % avg_p, F(9, QFont.DemiBold), QColor("#4f46e5"))
             txt(p, QRectF(lx + 13, ly + 18, lw - 13, 13),
-                "* 估算价格 = 积分 / 1M Token", F(8), INK3)
+                "* 总积分 ÷ 总 Token，非单段费率", F(8), INK3)
+            self._avg_rect = QRectF(lx + 10, ly + 2, lw - 10, 32)
         else:
             models_sorted = sorted(self.models, key=lambda x: -(x["credit"] if is_credit else x["tokens"]))
             for i, m in enumerate(models_sorted[:5]):
@@ -1404,6 +1444,9 @@ def layers_icon(color, size=16, dpr=2.0):
 
 
 class Header(QWidget):
+    RANGES = (("today", "今日"), ("yesterday", "昨日"), ("7d", "近 7 天"),
+              ("30d", "近 30 天"), ("all", "全部"))
+
     def __init__(self, on_range, icon_path=None, on_scale=None, scale=1.0,
                  on_mini=None, on_refresh=None, refresh_ms=1600,
                  on_model=None, on_custom_range=None):
@@ -1417,11 +1460,11 @@ class Header(QWidget):
         self.on_model = on_model
         self.on_custom_range = on_custom_range
         self.current_model = None
+        self.custom_label = None
         self.scale = scale
         self.status = "正在读取本地记录…"
         self.icon = QPixmap(icon_path) if icon_path and os.path.exists(icon_path) else None
         self.setFixedHeight(62)
-        self.buttons = []
         lay = QHBoxLayout(self)
         lay.setContentsMargins(2, 4, 2, 4)
         lay.setSpacing(6)
@@ -1435,40 +1478,38 @@ class Header(QWidget):
         self.spacer2.setFixedWidth(4)
         lay.addWidget(self.spacer2)
 
-        for key, label in (("today", "今日"), ("yesterday", "昨日"), ("7d", "近 7 天"),
-                           ("30d", "近 30 天"), ("all", "全部")):
-            b = QPushButton(label)
-            b.setCheckable(True)
-            b.setCursor(Qt.PointingHandCursor)
-            b.setFixedHeight(30)
-            b.setMinimumWidth(56)
-            b.setFont(F(11))
-            b.setStyleSheet("""
-                QPushButton { border: 1px solid #e8ecf4; background: #ffffff; color: #475569;
-                              border-radius: 9px; padding: 0 9px; }
-                QPushButton:hover { background: #f7f8fc; }
-                QPushButton:checked { background: qlineargradient(x1:0,y1:0,x2:1,y2:1,
-                              stop:0 #6366f1, stop:1 #8b5cf6); color: #ffffff; border: none; }
-            """)
-            b.clicked.connect(lambda _=False, k=key: self._pick(k))
-            self.buttons.append((key, b))
-            lay.addWidget(b)
-        self.buttons[0][1].setChecked(True)
-
-        self.custom_btn = QPushButton("自定义 ▾")
-        self.custom_btn.setCheckable(True)
-        self.custom_btn.setCursor(Qt.PointingHandCursor)
-        self.custom_btn.setFixedHeight(30)
-        self.custom_btn.setFont(F(11))
-        self.custom_btn.setStyleSheet("""
-            QPushButton { border: 1px solid #e8ecf4; background: #ffffff; color: #475569;
+        # 时间范围：合并成一个菜单，避免顶部按钮过度挤占模型筛选的宽度
+        self.range_btn = QPushButton("今日 ▾")
+        self.range_btn.setCursor(Qt.PointingHandCursor)
+        self.range_btn.setFixedHeight(30)
+        self.range_btn.setFont(F(11))
+        self.range_btn.setToolTip("统计时间范围")
+        self.range_btn.setStyleSheet("""
+            QPushButton { border: 1px solid #e8ecf4; background: #ffffff; color: #334155;
                           border-radius: 9px; padding: 0 10px; }
             QPushButton:hover { background: #f7f8fc; }
-            QPushButton:checked { background: qlineargradient(x1:0,y1:0,x2:1,y2:1,
-                          stop:0 #6366f1, stop:1 #8b5cf6); color: #ffffff; border: none; }
+            QPushButton::menu-indicator { image: none; width: 0px; }
         """)
-        self.custom_btn.clicked.connect(self._on_click_custom)
-        lay.addWidget(self.custom_btn)
+        self.range_menu = QMenu(self.range_btn)
+        self.range_menu.setFont(F(11))
+        self.range_menu.setStyleSheet("""
+            QMenu { background: #ffffff; border: 1px solid #e8ecf4; border-radius: 10px;
+                    padding: 6px; }
+            QMenu::item { padding: 7px 22px 7px 14px; border-radius: 6px; color: #334155; }
+            QMenu::item:selected { background: #eef2ff; color: #4f46e5; }
+            QMenu::separator { height: 1px; background: #eef2f8; margin: 5px 8px; }
+        """)
+        self.range_actions = []
+        for key, label in self.RANGES:
+            act = self.range_menu.addAction(label)
+            act.setCheckable(True)
+            act.setChecked(key == "today")
+            act.triggered.connect(lambda _=False, k=key: self._pick(k))
+            self.range_actions.append((key, act))
+        self.range_menu.addSeparator()
+        self.range_menu.addAction("自定义…").triggered.connect(self._on_click_custom)
+        self.range_btn.setMenu(self.range_menu)
+        lay.addWidget(self.range_btn)
 
         # 模型筛选
         self.model_btn = QPushButton("模型: 全部 ▾")
@@ -1580,22 +1621,27 @@ class Header(QWidget):
         if dlg.exec_() == QDialog.Accepted:
             s_ms, e_ms, lbl = dlg.get_range()
             self.range = "custom"
-            for _, b in self.buttons:
-                b.setChecked(False)
-            self.custom_btn.setChecked(True)
-            self.custom_btn.setText(lbl + " ▾")
+            self.custom_label = lbl
+            for _, act in self.range_actions:
+                act.setChecked(False)
+            self._sync_range_text()
             if self.on_custom_range:
                 self.on_custom_range(s_ms, e_ms, lbl)
         else:
-            if self.range != "custom":
-                self.custom_btn.setChecked(False)
+            self._sync_range_text()
+
+    def _sync_range_text(self):
+        if self.range == "custom" and self.custom_label:
+            self.range_btn.setText(self.custom_label + " ▾")
+        else:
+            self.range_btn.setText(dict(self.RANGES).get(self.range, "今日") + " ▾")
 
     def _pick(self, key):
         self.range = key
-        for k, b in self.buttons:
-            b.setChecked(k == key)
-        self.custom_btn.setChecked(False)
-        self.custom_btn.setText("自定义 ▾")
+        self.custom_label = None
+        for k, act in self.range_actions:
+            act.setChecked(k == key)
+        self._sync_range_text()
         self.on_range(key)
 
     def update_models_menu(self, models, current_model=None):

diff --git a/README.md b/README.md
@@ -23,7 +23,7 @@
 - **两种界面**：原生窗口（默认）与 Web 面板（`--web`），共用同一层聚合逻辑
 - **按模型查看与全屏联动**：支持按模型拆分 Token 用量与积分消耗，环形图支持一键切换「按 Token」与「按积分」；顶部支持指定模型全屏联动过滤；单模型视图下饼图自适应展示其内部构成（缓存命中/未命中/输出），并在右侧独立给出三种成分的单价估算（分/M Token）及综合单价
 - **模型用量与积分排行榜**：表格区域支持双 Tab 切换，一览所有模型的 Token 用量、输入/输出拆分、缓存命中率、调用频次、生成速度、积分消耗及份额占比
-- **多跨度时间查询与自定义范围**：支持「今日 / 昨日 / 近 7 天 / 近 30 天 / 全部」多档快捷预设，并提供日历弹窗自由选定起止日期；图表自适应按小时（≤40h）或按天（>40h）分桶
+- **多跨度时间查询与自定义范围**：顶部一个菜单容纳「今日 / 昨日 / 近 7 天 / 近 30 天 / 全部 / 自定义」，日历弹窗可自由选定起止日期；图表自适应按小时（≤40h）或按天（>40h）分桶
 - **增量解析**：只读会话文件新增的字节，扫描频率跟随刷新设置，万级记录不卡
 - **字号四档可调**：小 / 标准 / 大 / 特大，跟随系统 DPI 并记住选择
 - **吞吐时间窗可切换**：15 分钟 / 1 小时 / 6 小时 / 24 小时，自动切换分桶粒度
@@ -91,7 +91,8 @@ cd workbuddy-token-monitor
 | 实时调用流 | 最新 6 次调用，含输入/输出、实测速度与积分 |
 | 悬浮小窗 | 顶部「悬浮」按钮缩成 326×158 的置顶卡片：最近一次调用的速度、今日 Token、迷你吞吐曲线、命中率与积分 |
 
-顶部时间栏可切换「今日 / 昨日 / 近 7 天 / 近 30 天 / 全部 / 自定义 ▾」，并可通过「模型: 全部 ▾」进行全屏单模型指标联动。图表均支持鼠标悬停查看明细。
+顶部「今日 ▾」是时间范围菜单（今日 / 昨日 / 近 7 天 / 近 30 天 / 全部 / 自定义…），
+「模型: 全部 ▾」可联动全屏的单模型指标。图表均支持鼠标悬停查看明细。
 
 <img src="screenshot-mini.png" width="374" alt="悬浮小窗">
 

diff --git a/CHANGELOG.md b/CHANGELOG.md
@@ -2,6 +2,25 @@
 
 本项目遵循[语义化版本](https://semver.org/lang/zh-CN/)。
 
+## [1.1.1] — 2026-10-22
+
+### 修复
+
+- **快照缓存从未命中**：缓存键里带了毫秒级的 `end=now`，每次请求都被判为新键，等于每帧把全量记录重算一遍。
+  改为非自定义范围用「当天零点」入键（跨天自动失效），命中后耗时从 5.7–25.4 ms 降到 0.06–0.08 ms
+- **分桶是聚合的最大热点**：每条记录都要 `localtime` + `mktime` 求当天/当小时零点。
+  改为按 `(年, 年积日[, 小时])` 缓存，强制重算耗时下降 36–41%
+- **「全部」在不足一天的数据下只剩一根柱子**：分桶粒度改为只看实际跨度（≤40 小时按小时）
+- **Token 用量图缺图例**：Qt 版补回「缓存命中 / 未命中 / 输出」三色标注
+
+### 优化
+
+- **顶部工具栏不再拥挤**：六个时间按钮收进一个「今日 ▾」菜单（今日 / 昨日 / 近 7 天 / 近 30 天 / 全部 / 自定义…），
+  模型筛选不再被截断成「模型: DeepSeek-V4.…」
+- **「综合单价」改名「加权均价」**：补脚注「总积分 ÷ 总 Token，非单段费率」，悬停给出算法说明，
+  避免与单段费率（输出 57.48 分/M）混淆
+- 选定模型且构成极端倾斜（某段 ≥90%）时，环形图默认切到「积分构成」；用户手动切换后不再自动干预
+
 ## [1.1.0] — 2026-10-22
 
 ### 新增

diff --git a/README.en.md b/README.en.md
@@ -92,7 +92,7 @@ If PyQt5 is missing, the launcher falls back to `--web` instead of failing.
 | Live calls | The latest 6 calls with input/output, measured speed and credits |
 | Mini window | The "悬浮" button collapses everything into a 326×158 always-on-top card: the latest call's speed, today's tokens, a mini throughput curve, hit rate and credits |
 
-Use the top bar to switch between **Today / Yesterday / Last 7 days / Last 30 days / All / Custom ▾**, or filter by **Model: All ▾**. Charts show details on hover.
+The **Today ▾** menu at the top switches the time range (Today / Yesterday / Last 7 days / Last 30 days / All / Custom…), and **Model: All ▾** filters every card down to a single model. Charts show details on hover.
 
 <img src="screenshot-mini.png" width="374" alt="Mini window">
 
